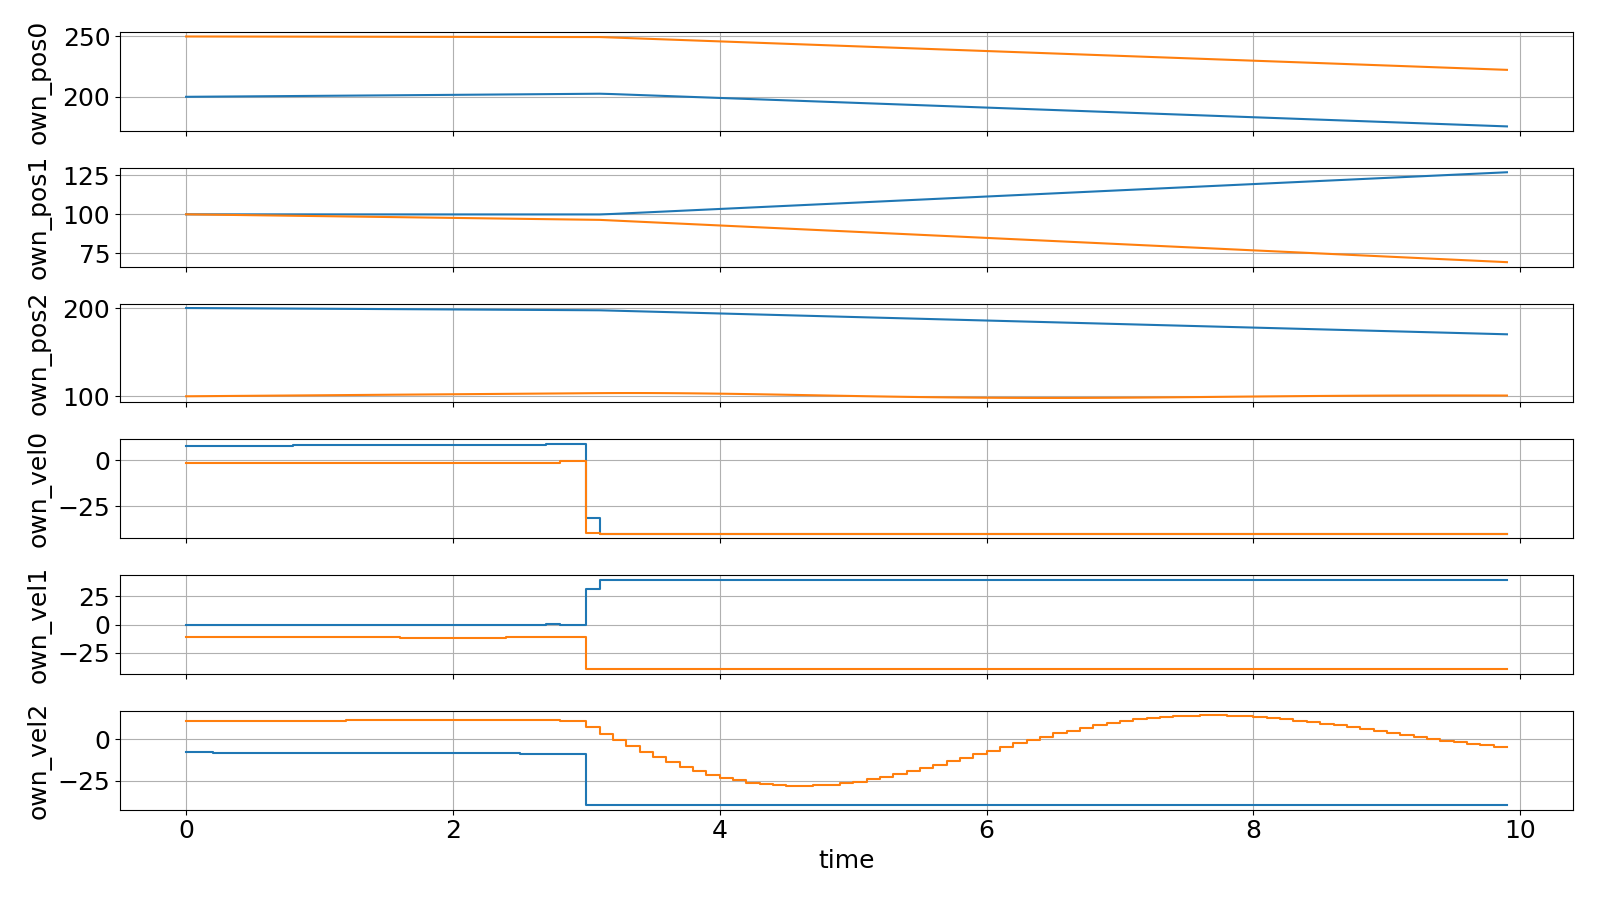
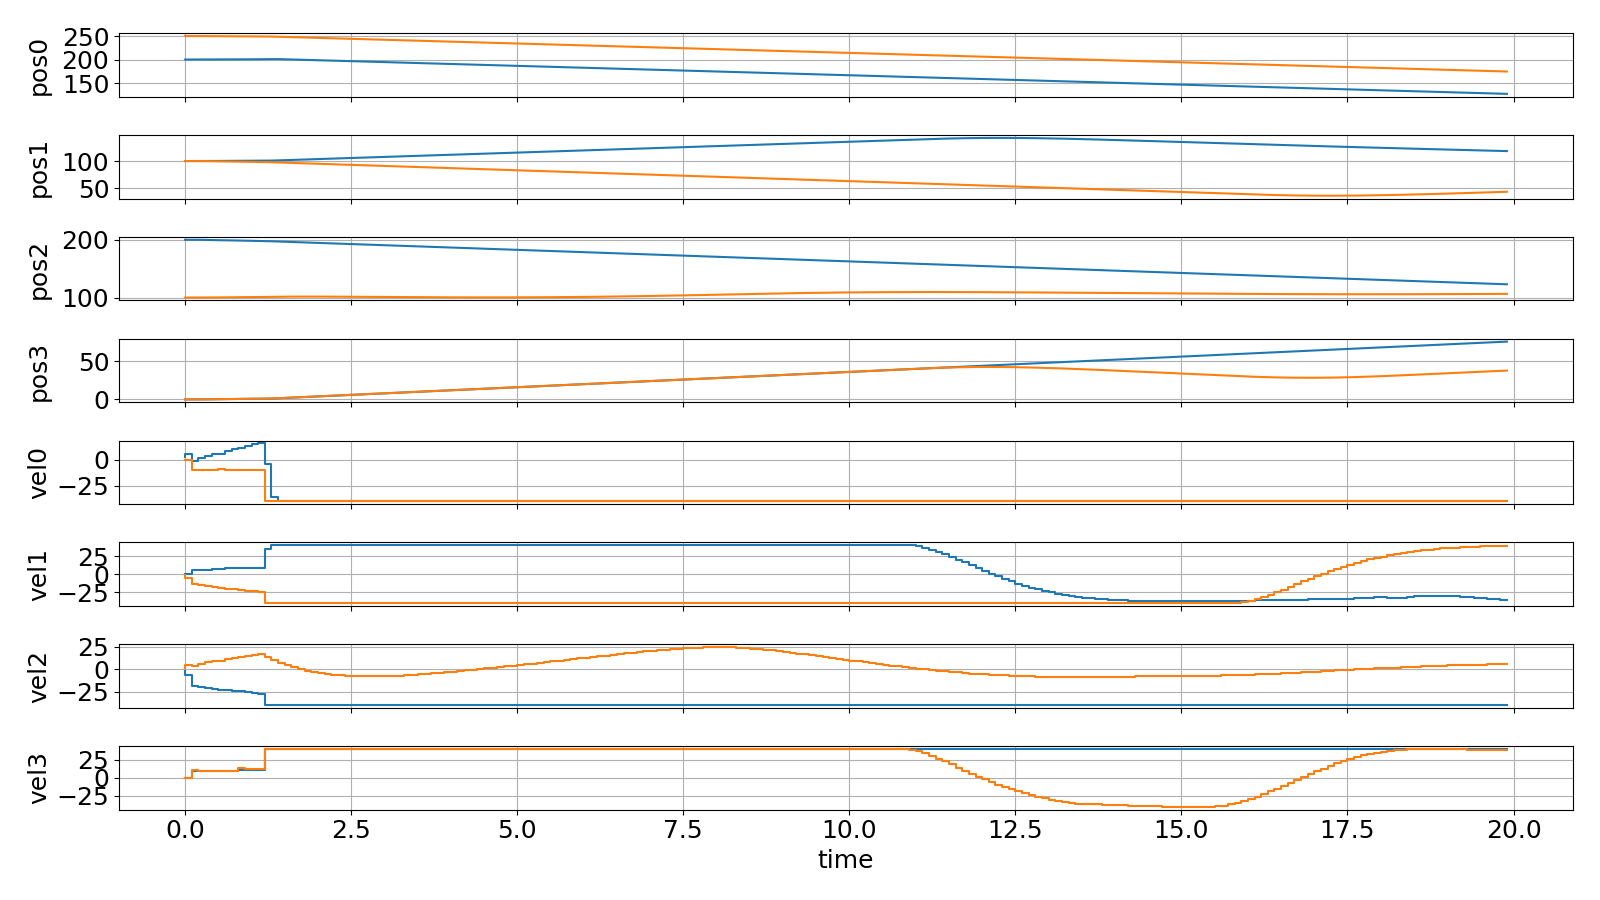
improve MPC problem formulation

diff --git a/MPC/model_predictive_control.py b/MPC/model_predictive_control.py
@@ -12,15 +12,15 @@ class ModelPredictiveControl:
             self,
             visible_agents: int,
             time_step: float,
-            own_target: np.ndarray,
+            target: np.ndarray,
+            radius: np.ndarray,
             max_speed: float,
             desired_speed: float
     ):
         self.time_step = time_step
         self.visible_agents = visible_agents
-
-        self.own_target = casadi.SX(own_target)
-        # self.targets = casadi.SX(np.array([[2, 1]]))
+        self.target = target
+        self.radius = radius
 
         self.model = self.create_model()
         self.controller = self.create_controller(max_speed, desired_speed)
@@ -32,30 +32,20 @@ class ModelPredictiveControl:
     def create_model(self):
         model = do_mpc.model.Model('continuous')
         # states
-        # pos = model.set_variable('_x', 'pos', shape=(visible_agents, 2))
-        # vel = model.set_variable('_x', 'vel', shape=(visible_agents, 2))
-        own_pos = []
-        own_vel = []
+        pos = []
+        vel = []
         for agent_idx in range(self.visible_agents):
-            own_pos.append(model.set_variable('_x', f'own_pos{agent_idx}', shape=(2, 1)))
+            pos.append(model.set_variable('_x', f'pos{agent_idx}', shape=(2, 1)))
             # controls
-            own_vel.append(model.set_variable('_u', f'own_vel{agent_idx}', shape=(2, 1)))
+            vel.append(model.set_variable('_u', f'vel{agent_idx}', shape=(2, 1)))
 
-        # uncertainty parameters
-        # targ = model.set_variable('_p', 'targ', shape=(visible_agents, 2))
-        # own_targ = model.set_variable('_p', 'own_targ', shape=(2, 1))
         # uncertainty time varying parameters
         # velocities_uncertainty = model.set_variable('_tvp', 'velocities_uncertainty')
 
         # set state equations
-        # model.set_rhs('pos', pos + vel * self.time_step)
-        # assert pos.shape == (pos + vel * self.time_step).shape
-
-        # model.set_rhs('vel', (self.targets - pos) * 0.5)
-        # assert vel.shape == ((self.targets - pos) * 0.5).shape
         for agent_idx in range(self.visible_agents):
-            model.set_rhs(f'own_pos{agent_idx}', own_vel[agent_idx] * self.time_step)
-            assert own_pos[agent_idx].shape == (own_vel[agent_idx] * self.time_step).shape
+            model.set_rhs(f'pos{agent_idx}', vel[agent_idx] * self.time_step)
+            assert pos[agent_idx].shape == (vel[agent_idx] * self.time_step).shape
 
         model.setup()
         return model
@@ -66,58 +56,59 @@ class ModelPredictiveControl:
         # controller parameters
         params = {
             'n_horizon': 20,
-            'n_robust': 1,
-            't_step': self.time_step
+            # 'n_robust': 1,
+            't_step': self.time_step,
+            'state_discretization': 'collocation',
+            'collocation_type': 'radau',
+            'collocation_deg': 3,
+            'collocation_ni': 1,
+            # 'store_full_solution': True,
+            # Use MA27 linear solver in ipopt for faster calculations:
+            # 'nlpsol_opts': {'ipopt.linear_solver': 'mumps'}
         }
         mpc.set_param(**params)
         # objective = sum_over_time(lagrange_term + r_term) + meyer_term
 
-        # lterm=casadi.norm_2(1 / (m.x['own_pos'] - m.x['pos'])),
-        lterm = casadi.SX(0)  # casadi.norm_2(1 / (m.x['own_pos'] - casadi.SX(np.array([5, 5]))))
-        # for a, b in combinations(list(range(self.visible_agents))):
-        #     lterm +=
+        # keep distance to other agents
+        lterm = casadi.SX(0)
+        for a, b in combinations(list(range(self.visible_agents)), 2):
+            lterm += 10. / casadi.norm_2(m.x[f'pos{a}'] - m.x[f'pos{b}'])
 
+        # move over target
         mterm = casadi.SX(0)
         for agent_idx in range(self.visible_agents):
-            targ = self.own_target[agent_idx, :].T
-            mterm += casadi.norm_2(targ - m.x[f'own_pos{agent_idx}'])
+            targ = self.target[agent_idx]
+            mterm += casadi.norm_2(targ - m.x[f'pos{agent_idx}'])
 
         mpc.set_objective(
             lterm=lterm,
             mterm=mterm
         )
-        rterms = {f'own_vel{idx}': 1e-4 for idx in range(self.visible_agents)}
+        rterms = {f'vel{idx}': 1e-4 for idx in range(self.visible_agents)}
         mpc.set_rterm(**rterms)  # input regularization
 
+        # constraint maximal speed of agents
         for agent_idx in range(self.visible_agents):
             mpc.set_nl_cons(
                 f'speed_constraint_upper{agent_idx}',
-                casadi.sum2(m.u[f'own_vel{agent_idx}']**2),
-                ub=desired_speed**2,
+                casadi.sum2(m.u[f'vel{agent_idx}'] ** 2),
+                ub=desired_speed ** 2,
                 soft_constraint=True,
-                maximum_violation=max_speed**2,
+                maximum_violation=max_speed ** 2,
                 penalty_term_cons=1e-2
             )
+
+        # constraint for collisions
         for a, b in combinations(list(range(self.visible_agents)), 2):
+            rad_sum = self.radius[a] + self.radius[b]
             mpc.set_nl_cons(
                 f'collision_avoidance_constraint{a}/{b}',
-                -casadi.sum2((m.x[f'own_pos{a}'] - m.x[f'own_pos{b}']) ** 2),
-                ub=-(10 ** 2),
-                # soft_constraint=True,
-                # maximum_violation=max_speed ** 2,
-                # penalty_term_cons=1e-2
-            )
-            # mpc.set_nl_cons(
-            #     f'speed_constraint_lower{agent_idx}',
-            #     -m.u[f'own_vel{agent_idx}'],
-            #     ub=desired_speed,
-            #     soft_constraint=True,
-            #     maximum_violation=max_speed,
-            #     penalty_term_cons=0.05
-            # )
-
-        # mpc.bounds['upper', '_u', 'own_vel'] = 50
-        # mpc.bounds['lower', '_u', 'own_vel'] = -50
+                -casadi.sum2((m.x[f'pos{a}'] - m.x[f'pos{b}']) ** 2),
+                ub=-(rad_sum ** 2),
+                soft_constraint=True,
+                maximum_violation=(rad_sum / 2.) ** 2,
+                penalty_term_cons=1e-1
+             )
 
         mpc.setup()
         return mpc
@@ -133,11 +124,10 @@ class ModelPredictiveControl:
         simulator.setup()
         return simulator
 
-    def init_control_loop(self, own_pos):
+    def init_control_loop(self, pos):
         x0 = self.controller.x0
-        x0['own_pos0'] = own_pos[0]
-        x0['own_pos1'] = own_pos[1]
-        x0['own_pos2'] = own_pos[2]
+        for i in range(self.visible_agents):
+            x0[f'pos{i}'] = pos[i]
 
         self.controller.x0 = x0
         self.simulator.x0 = x0
@@ -157,34 +147,26 @@ class ModelPredictiveControl:
 if __name__ == '__main__':
 
     mpc_model = ModelPredictiveControl(
-        visible_agents=3,
+        visible_agents=4,
         time_step=0.1,
-        own_target=np.array([[0, 1], [150, 6], [10, 100]]),
+        target=np.array([[0, 1], [150, 6], [10, 100], [150, 150]]),
+        radius=np.full(shape=(4,), fill_value=2.),
         max_speed=50.,
         desired_speed=40.
     )
-    own_pos = np.array([[200, 250], [100, 100], [200, 100]])
-    mpc_model.init_control_loop(own_pos=own_pos)
-
-    # mpc_graphics = do_mpc.graphics.Graphics(mpc_model.controller.data)
-    # sim_graphics = do_mpc.graphics.Graphics(mpc_model.simulator.data)
-
-    # visualizer = DataVisualizer()
-    # visualizer.set_graphics_data(sim_graphics=sim_graphics, mpc_graphics=mpc_graphics)
-    # visualizer.create_figure()
+    position = np.array([[200, 250], [100, 100], [200, 100], [0, 0]])
+    mpc_model.init_control_loop(pos=position)
 
     t = 0
-    while t < 100:  # and casadi.norm_2(mpc_model.state - mpc_model.own_target) > 0.1:
+    while t < 200:
         mpc_model.update_control_loop()
-        # visualizer.update_plots(mpc_model.controller.data)
         t += 1
 
-    # visualizer.animate(T)
-
+    # visualize data
     rcParams['axes.grid'] = True
     rcParams['font.size'] = 18
 
     fig, ax, graphics = do_mpc.graphics.default_plot(mpc_model.controller.data, figsize=(16, 9))
     graphics.plot_results()
     graphics.reset_axes()
-    plt.savefig('data.png')
+    plt.savefig('small_MPC_plots.png')

diff --git a/examples/small_MPC.py b/examples/small_MPC.py
@@ -1,4 +1,3 @@
-import casadi
 import pygame as pg
 import numpy as np
 
@@ -18,7 +17,6 @@ if __name__ == '__main__':
     pg.display.set_caption("Collision Avoidance")
 
     sim = Simulation()
-    # sim.random_initialize(scene_size=win_size, agents_num=10)
 
     agents_num = 3
     agents = Agents(
@@ -44,7 +42,8 @@ if __name__ == '__main__':
     model = ModelPredictiveControl(
         visible_agents=agents_num,
         time_step=delta_time,
-        own_target=agents.targets,
+        target=agents.targets,
+        radius=agents.radiuses,
         max_speed=agents.max_speeds[0],
         desired_speed=agents.desired_speeds[0]
     )
@@ -62,25 +61,12 @@ if __name__ == '__main__':
                 sim.running = False
 
         model.update_control_loop()
-        # new_velocities = agents.get_preferred_velocities()
-
-        # if casadi.norm_2(model.state - model.own_target) > 0.1:
-        # print(model.simulator.data['_u'][-1].reshape(-1, 2))
         new_velocities = model.simulator.data['_u'][-1].reshape(-1, 2)
-        # else:
-            # sim.running = False
-            # new_velocities[0] = np.zeros(2)
-
-        # new_velocities = model.compute_velocities(agents)
-        # model.draw_debug(window, agent_idx=agents.debug_agent)
-
-
         agents.set_velocity(new_velocities)
         agents.move(delta_time)
         model.state = agents.positions.reshape(-1, 1)
 
         sim.update(window)
-
         pg.display.update()
 
     rcParams['axes.grid'] = True
@@ -89,4 +75,4 @@ if __name__ == '__main__':
     fig, ax, graphics = do_mpc.graphics.default_plot(model.controller.data, figsize=(16, 9))
     graphics.plot_results()
     graphics.reset_axes()
-    plt.savefig('data.png')
+    plt.savefig('small_MPC_plots.png')
